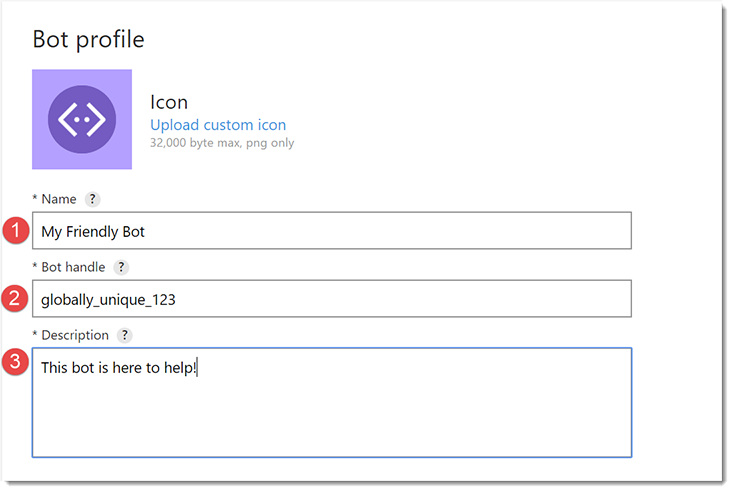
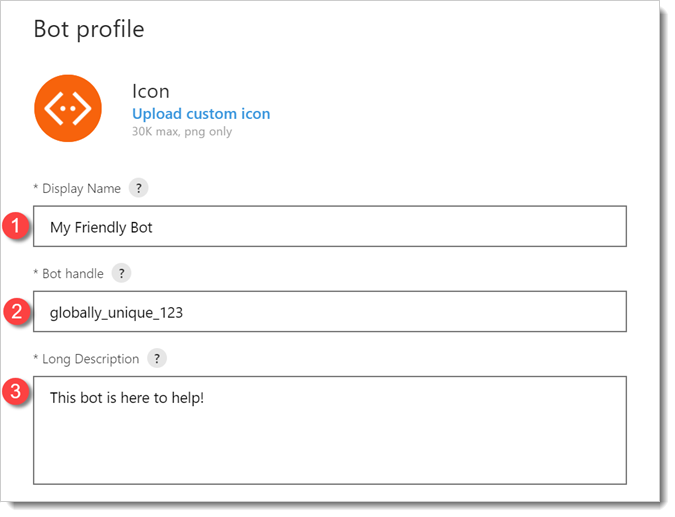
update bot screenshots for new UI

Changed region(s): [[0.0, 0.0, 0.9956, 1.0], [0.9022, 0.611, 0.9333, 0.6415], [0.0, 0.0, 0.0311, 0.0305]]

diff --git a/core/md/Register-Bot.md b/core/md/Register-Bot.md
@@ -2,20 +2,21 @@
 
 You must manually register a new bot. A bot registration is the authenticated link between you and your callers.
 
-1. Sign in to the [bot registration portal][7]
+1. Sign in to the [bot registration portal][5]
 1. Set your bot's `profile`  
 ![screenshot][1]
-1. Set your bot's `app configuration`. Clicking the blue button will open a new page (you may have to re-authenticate with the App Registration Portal).  
+1. Set your bot's `app configuration`. Clicking the blue button will open a new page (you may have to authenticate with the App Registration Portal).  
 ![screenshot][2]
-1. Register an `app` for your bot. Be sure to copy the password after it is generated. You will not be able to retrieve it again.  
+1. Register an `app` for your bot. Be sure to copy the password after it is generated. *You will not be able to retrieve it again*.  
 ![screenshot][3]
-1. `Complete` your bot's registration  
+1. Analytics fields may be left blank.  
 ![screenshot][4]
-
-> Any fields left blank in the screenshots above may be left blank.
+1. `Complete` your bot's registration  
+![screenshot][5]
 
 [1]: ../../assets/create-bot-01.png
 [2]: ../../assets/create-bot-02.png
 [3]: ../../assets/create-bot-03.png
 [4]: ../../assets/create-bot-04.png
-[7]: https://dev.botframework.com/bots/new
+[5]: ../../assets/create-bot-05.png
+[5]: https://dev.botframework.com/bots/new
